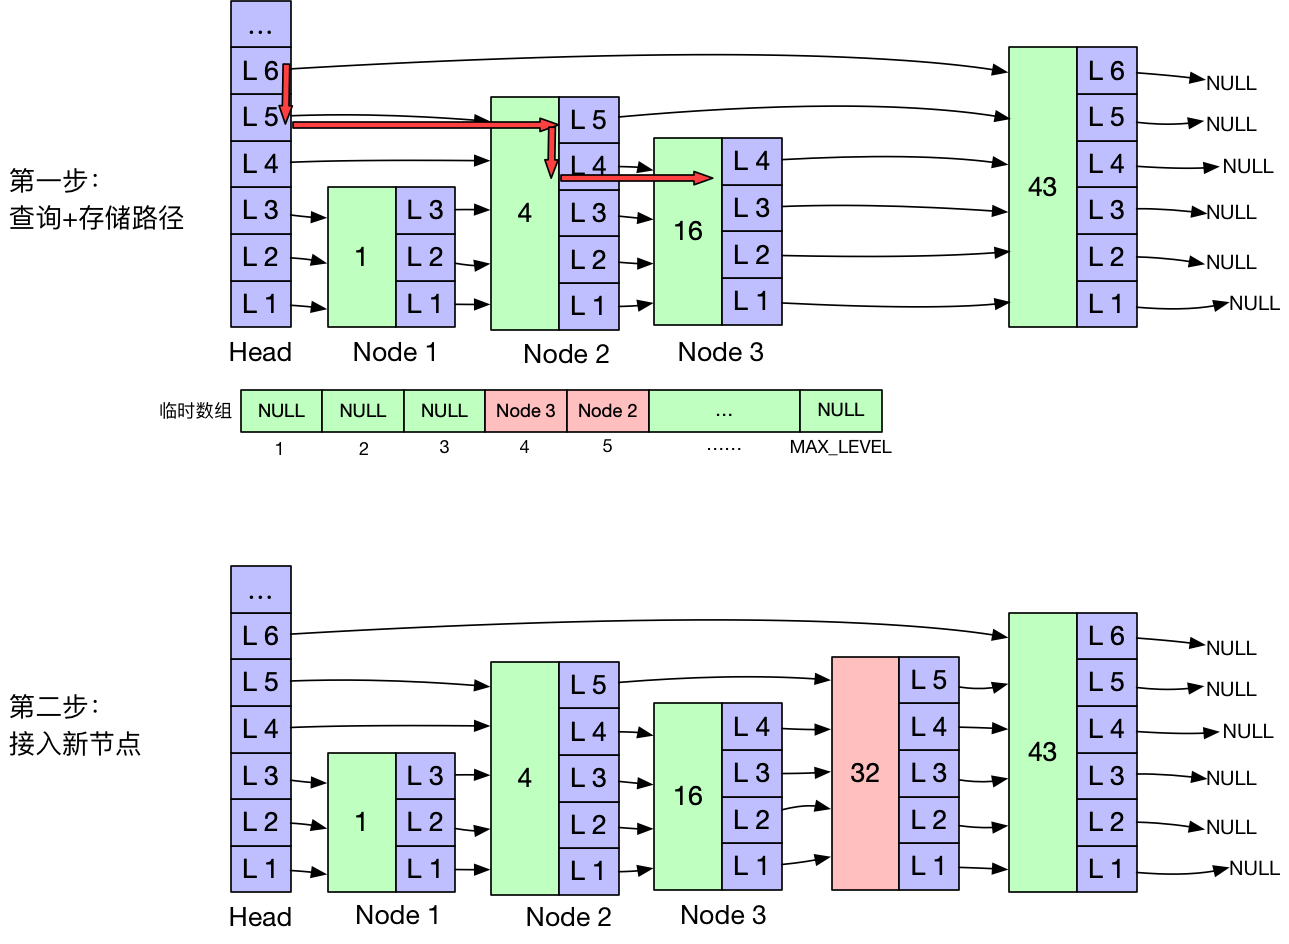
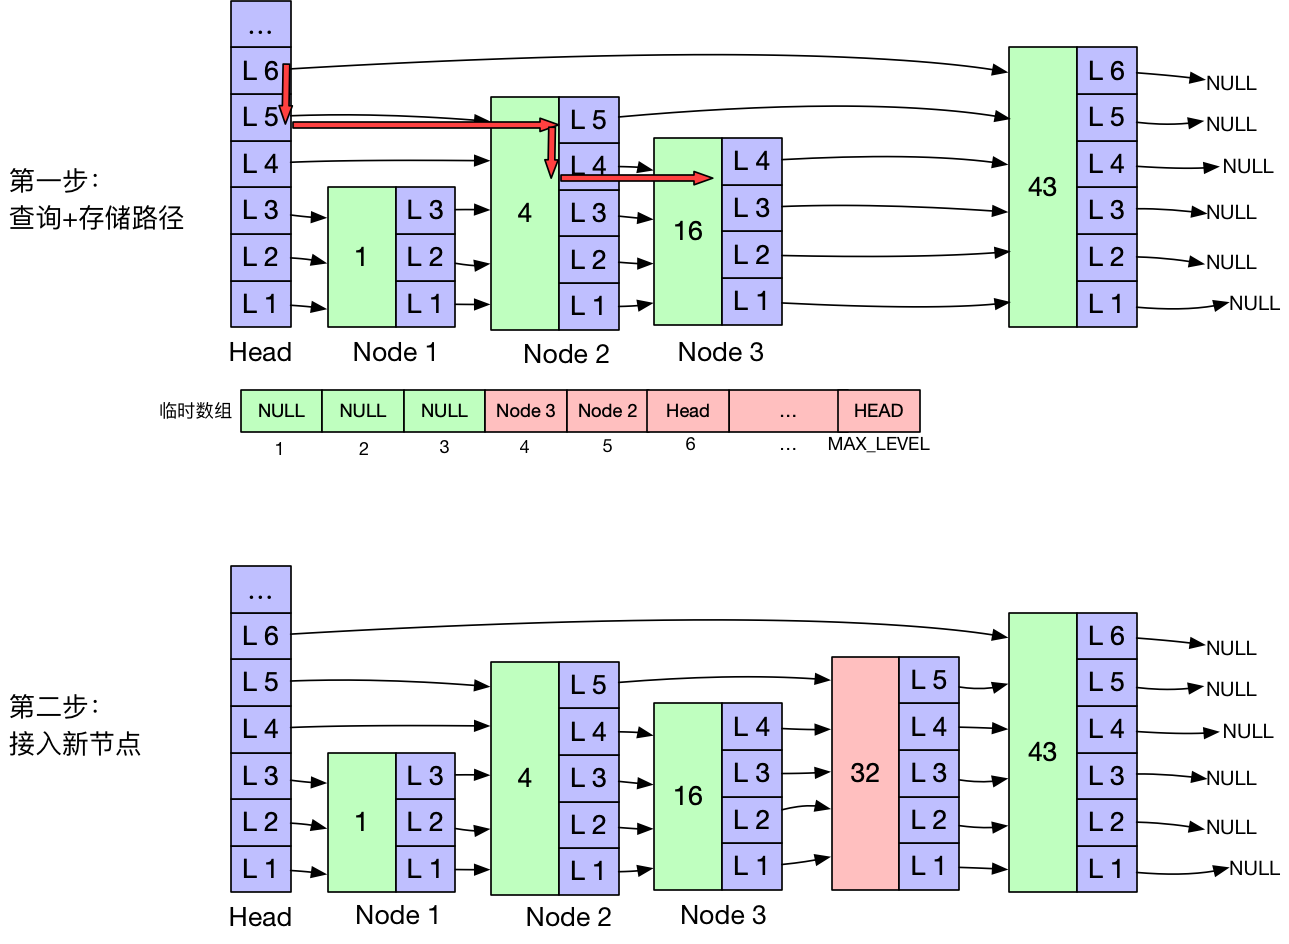
完成跳跃表博文

Changed region(s): [[0.4965, 0.3994, 0.7137, 0.4915]]

diff --git a/_posts/2019-03-31-Skip-List.md b/_posts/2019-03-31-Skip-List.md
@@ -28,7 +28,7 @@ randomLevel():
         level := leve + 1
     return level
 ```
-一般实现中，概率阈值 *p* 可以选择0.5，最大层高 *MAX_LEVEL* 选择为32。
+实现中，概率阈值 *p* 可以选择0.5，不同的值对性能可能稍有影响；最大层高 *MAX_LEVEL* 可以选择为32。
 
 # 2. 跳跃表的读和写
 ## 2.1 查询
@@ -36,12 +36,22 @@ randomLevel():
 {% include image.html url="/images/SkipListSearch.png" desc="图 3: 跳跃表查询" %}
 
 ## 2.2 插入
-当进行插入操作时，我们第一步还是要进行查询；由于跳跃表不像链表一样每个节点只指向单个节点，我们需要临时存储沿途的查询路径，这样才能快速地将原有的一些节点重新指向新节点。论文里给出了一个方法，那就是使用一个大小为MAX_LEVEL的临时数组，它的下标对应着层高；每一个数组元素存储着沿途查询时最新出现的、层高和下标相同的跳跃表节点（为了方便，我们假设下标从1开始）。由于MAX_LEVEL不是一个很大的数，因此临时数组开销和一个大的跳跃表相比可以说是微乎其微。听起来有点绕，我们不妨结合着图来看，下图假设我们要往原有的跳跃表插入一个值为32的节点：
+当进行插入操作时，我们第一步还是要进行查询；由于跳跃表不像链表一样每个节点只指向单个节点，我们需要临时存储沿途的查询路径，这样才能快速地将原有的一些节点重新指向新节点。论文里给出了一个方法，那就是使用一个大小为MAX_LEVEL的临时数组，它的下标对应着层高；每一个数组元素存储着沿途查询时最新出现的、层高和下标相同的跳跃表节点（为了方便，我们假设下标从1开始）。由于MAX_LEVEL不是一个很大的数，因此临时数组开销和一个大的跳跃表相比可以说是微乎其微。听起来有点绕，我们不妨结合着图来看，下图假设我们要往原有的跳跃表插入一个值为32的节点，它随机生成的层高为5：
 {% include image.html url="/images/SkipListInsert.png" desc="图 4: 跳跃表插入节点" %}
 
 # 3. 跳跃表 vs. B+树
+和B+树相比，跳跃表有几个好处：
+1. 实现简单；跳跃表进行插入和删除操作时不需要维护节点的分裂和合并，比B+树要容易实现很多；
+2. 内存压力小；和上一条理由一样，B+树进行节点分裂和合并时对内存读写较为密集；
+3. 并发性能好；我们可以举插入新数据为例子，在要用到锁的情况下，跳跃表只需要对指向新节点的几个节点加写锁，粒度较小；而B+树沿途检索下来，有可能会对一大片节点加了写锁，而且B+树的节点和跳跃表的节点不同，有可能存储着多个元素。当然，B+树有很多针对并发写的优化，但是因为B+树自身结构的原因，都没有跳跃表来的简单，更何况还存在[无锁的跳跃表实现](http://www.cse.yorku.ca/~ruppert/papers/lfll.pdf)。
 
-# 4. 总结 
+那么说了那么多跳跃表的优点和B+树的缺点，跳跃表是否可以完全取代B+树了呢？答案是否定的。一般来说硬盘型数据库（比如MySQL）的存储引擎对数据的组织都是以硬盘的页（大小以KB计）为单位，再映射到内存的。我们回忆一下B+树的结构，如下图：
+{% include image.html url="/images/BpTree.png" desc="图 5: B+树结构" %}
+
+每个B+树节点都可以对应到硬盘上的一个页，每个页都是元素的聚合。B+树的结构天生就很容易存储这种聚合的数据，而跳跃表每个节点都只单独存储一个元素，很难进行这种内存到硬盘的映射。也正是因为这样，跳跃表总是多见于MemSQL、Redis这种内存型数据库，或者HBase的内存存储，但是很多硬盘型数据库，仍然主要使用B+树作为自己的索引。
+
+# 4. 总结
+在本篇博文，我们一起学习了跳跃表、它如何进行读写、以及它和B+树的对比。跳跃表简单易懂，而且并发效率高，是很多内存数据库平衡树的替代品；但是它也不是万能的，它不能像B+树那样将内存和硬盘很好地结合起来，因此我们也要结合自己的实际业务出发，如果数据只是存储在内存中，跳跃表是个不错的索引选择。
 
 # 引用材料
 1. Redis作者 antirez [关于 Skip List 的讨论](https://news.ycombinator.com/item?id=1171423)

diff --git a/about.md b/about.md
@@ -3,7 +3,11 @@ layout: page
 title: About
 permalink: /about/
 ---
-本科就读于华南地区某三流理工大学；曾在美国东北部某钢铁城市高校苦练划水，已混得水硕文凭一张；目前就职于杭州某初创互联网金融科技公司，从事软件开发；博客只为个人学习总结，水平太次，文章定有各种纰漏，欢迎指正，但感情较脆弱，不欢迎人身攻击；意志力薄弱，无法坚持写文章，打算下周放弃。
+本科就读于华南地区某三流理工大学；硕士曾在美国东北部某钢铁城市高校苦练划水；目前就职于杭州某初创互联网金融科技公司，从事软件开发；博客只为个人学习总结，水平太次，文章定有各种纰漏，欢迎指正，但感情较脆弱，不欢迎人身攻击；意志力薄弱，无法坚持写文章，打算下周放弃。
 
-# Contact me
-[wulin5@foxmail.com](Lin Wu:wulin5@foxmail.com)
+# Contact Me
+Email: [wulin5@foxmail.com](Lin Wu:wulin5@foxmail.com)
+
+微信/Wechat:
+
+<img src="{{ site.baseurl }}/images/wechat.png" width="30%">
